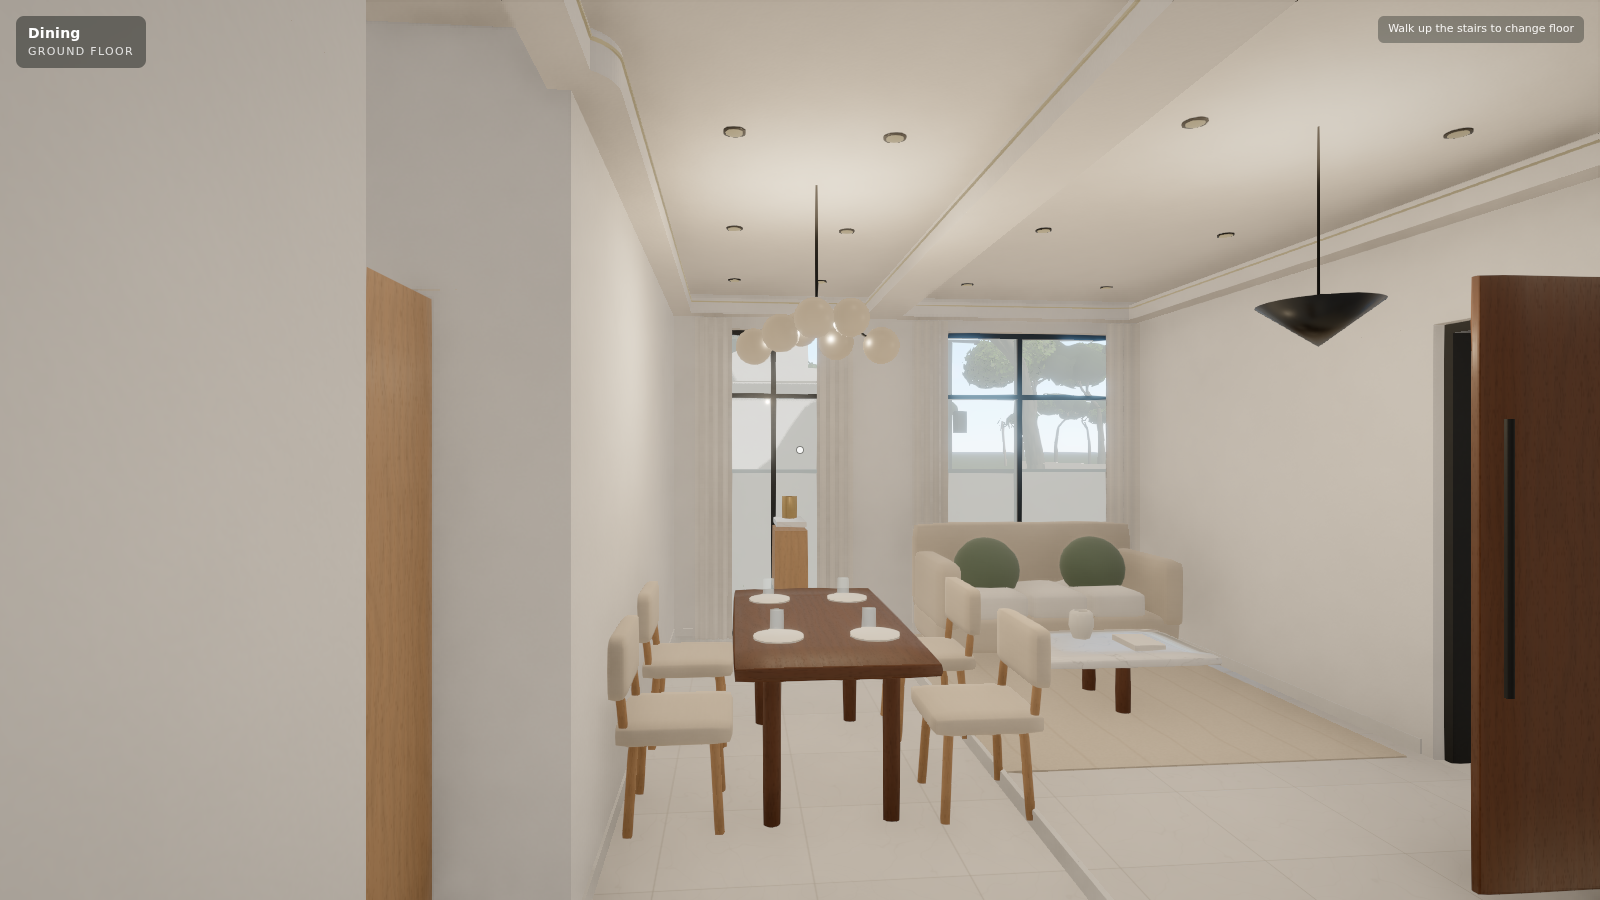
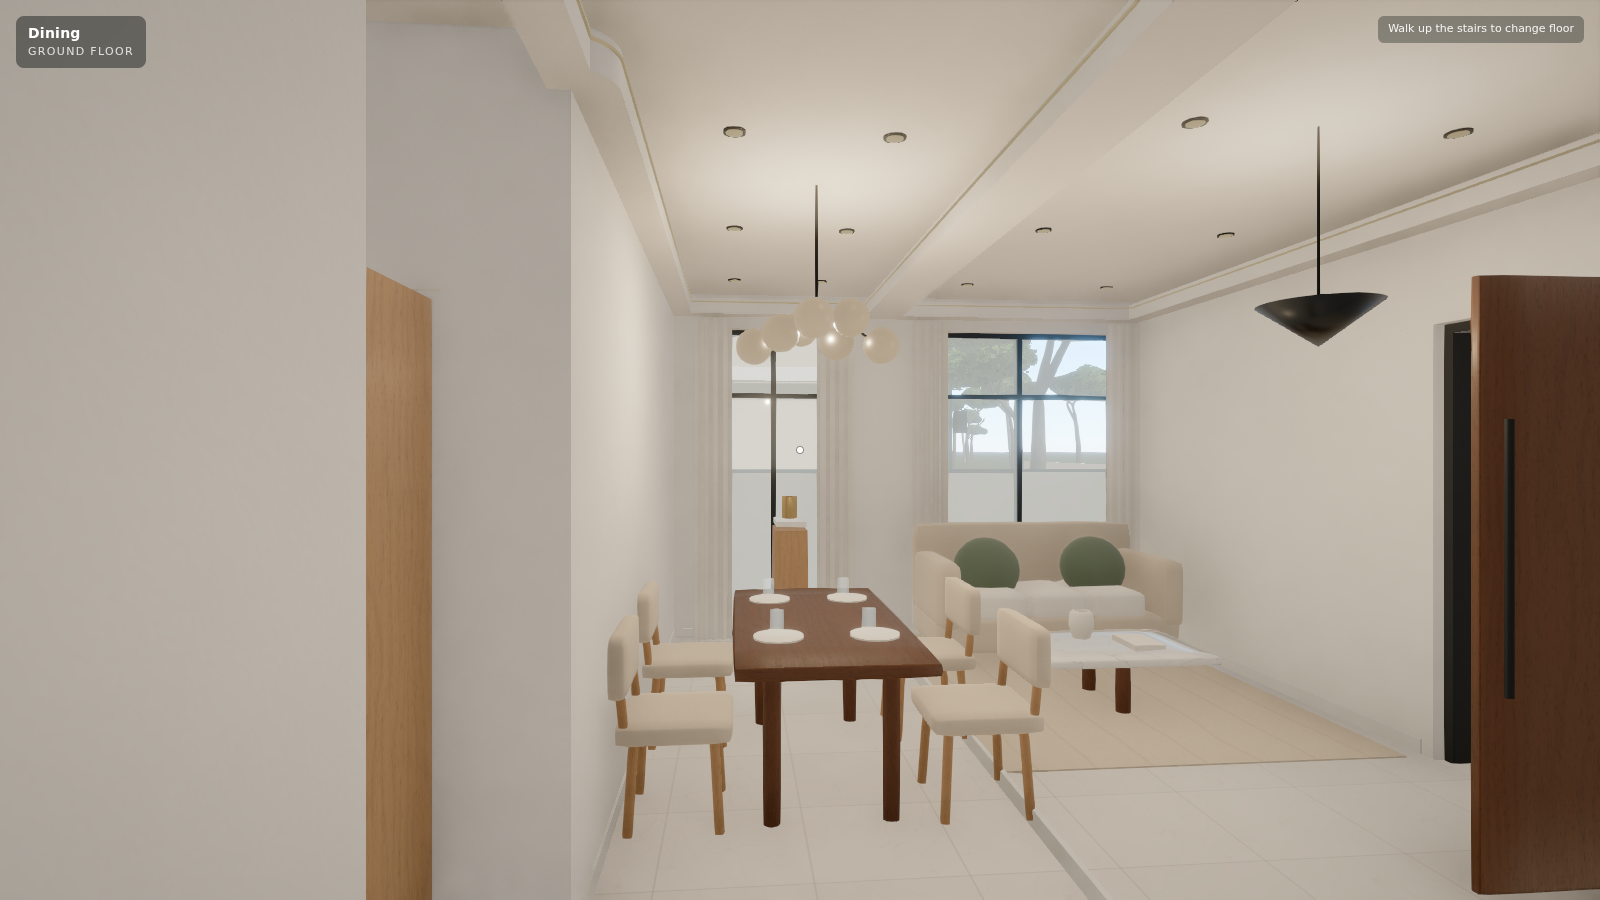
Refresh walkthrough evidence for the refurbished windows and terraces
The walkthrough harness re-ran against the refurbished build: 16
captures with no page errors, including the terrace with its pergola and
glass balustrade. The offline preview's live walk went from the street
through the gate into the living room, the room probe was captured, and
a jump reached 0.82 m; its Blender GLB download is 76 MB. The
verification record gains a section on the window, terrace and
large-view work.

Claude-Session: https://claude.ai/code/session_01H1ZFqKYdjANuxZ6aXQ1WF9

Changed region(s): [[0.5938, 0.3733, 0.7188, 0.4978], [0.5, 0.3733, 0.5312, 0.4044]]

diff --git a/docs/VERIFICATION.md b/docs/VERIFICATION.md
@@ -92,6 +92,15 @@ The studio was driven through every tab, camera view, mode and grade, both gener
 - **Phone framing.** On a portrait phone canvas the hero view cropped both ends of the house. Orbit views now step back on portrait canvases.
 - **Wording.** The status line kept the walk instructions after leaving walk mode, the heading read "1 bedrooms", and the walk badge called the street "Garden".
 
+## Windows, terraces and the large view
+
+Close-ups of every exterior theme's windows and terraces were rendered from the street, from above, along each side and from the terrace itself, in daylight and at blue hour. These were the findings and the changes:
+
+- **Dated windows.** Bedroom windows sat in 120 mm timber or render boxes. The older themes also had 0.7 m concrete shades over every window, side surrounds and 0.4 m stone sills. All themes now share one slim aluminium system with timber-lined pods on facade bedrooms and etched glass in wet rooms; the older themes keep a slim eyebrow over living-room windows. A test checks, for every theme, that no heavy shades remain, sills stay slim, wet rooms get etched glass and the pods stay slim.
+- **Terraces on the roof.** On the three older themes with a balcony, the balcony was placed at twice the floor height, so it floated on the roof as a glass box while the drawings placed it correctly. It now sits level with the first floor.
+- **Sparse terraces.** The glass balustrade had no visible edge and the deck was bare. Every terrace now has a handrail cap, a louvred pergola with downlights, seating on a rug and planted corners. A test checks the level, balustrade and pergola for every theme.
+- **Large view and zoom.** The studio's large view was driven in a browser at 1440×900 and 390×844. It filled the window with its controls, and **+** zoomed from 26.6 m to 18.6 m. A double-click glided in to the clicked spot. Esc returned to the studio. **Capture** saved a 3840×2400 PNG. A drawing sheet zoomed to 225% and panned by dragging.
+
 ## Not accepted
 
 The following were not available or not completed:
